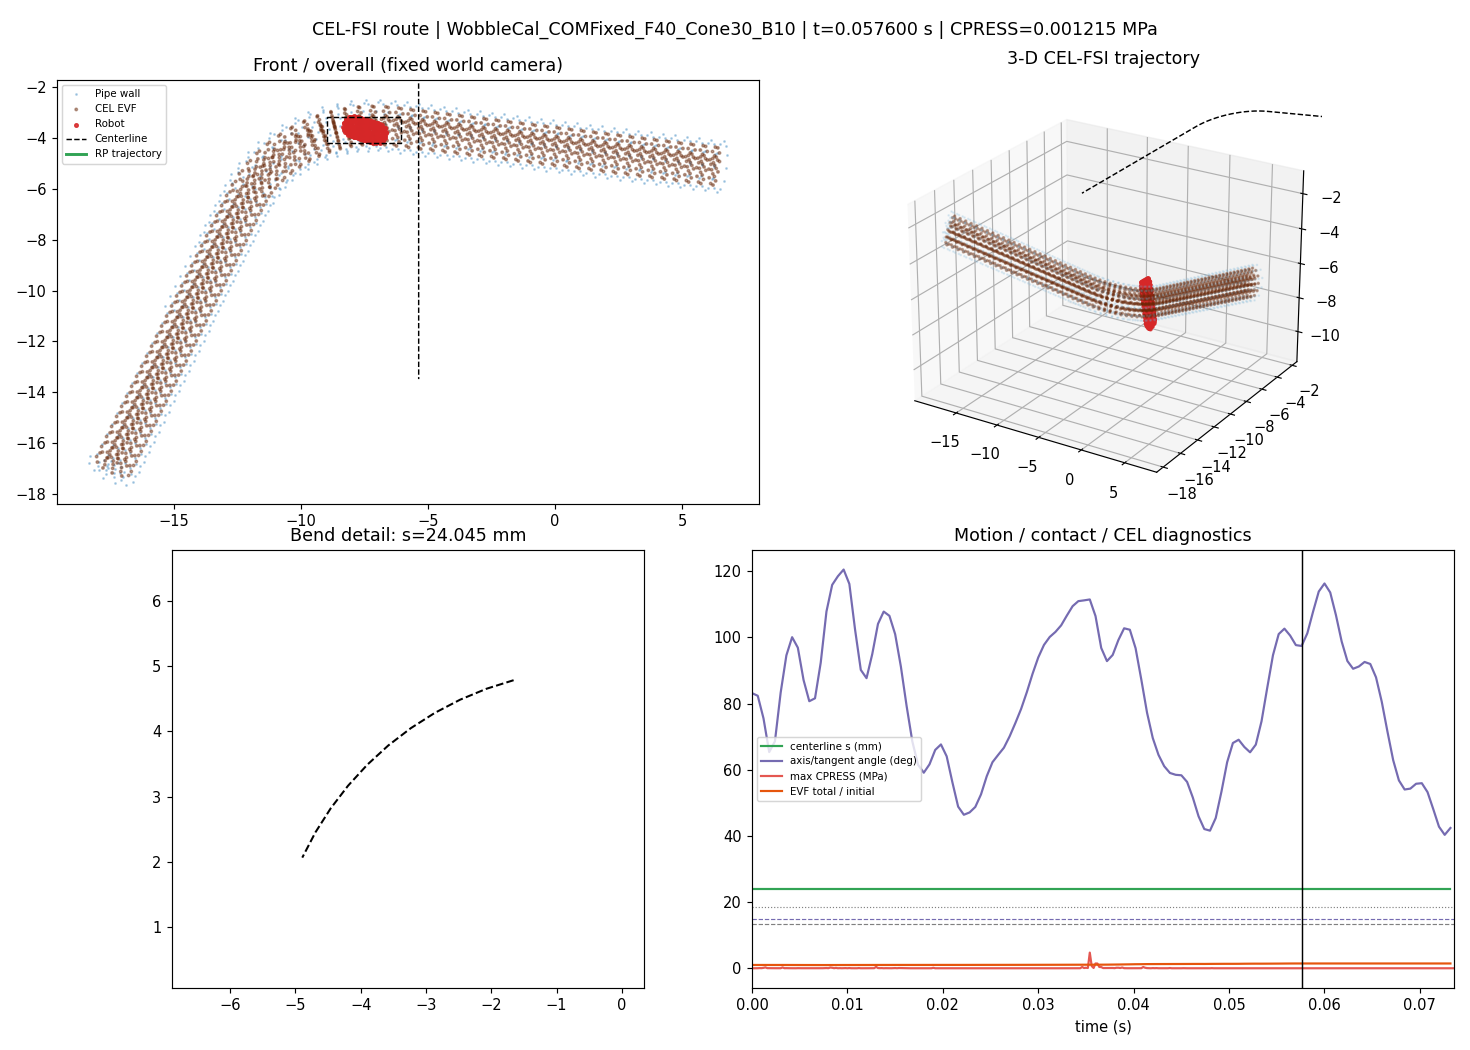
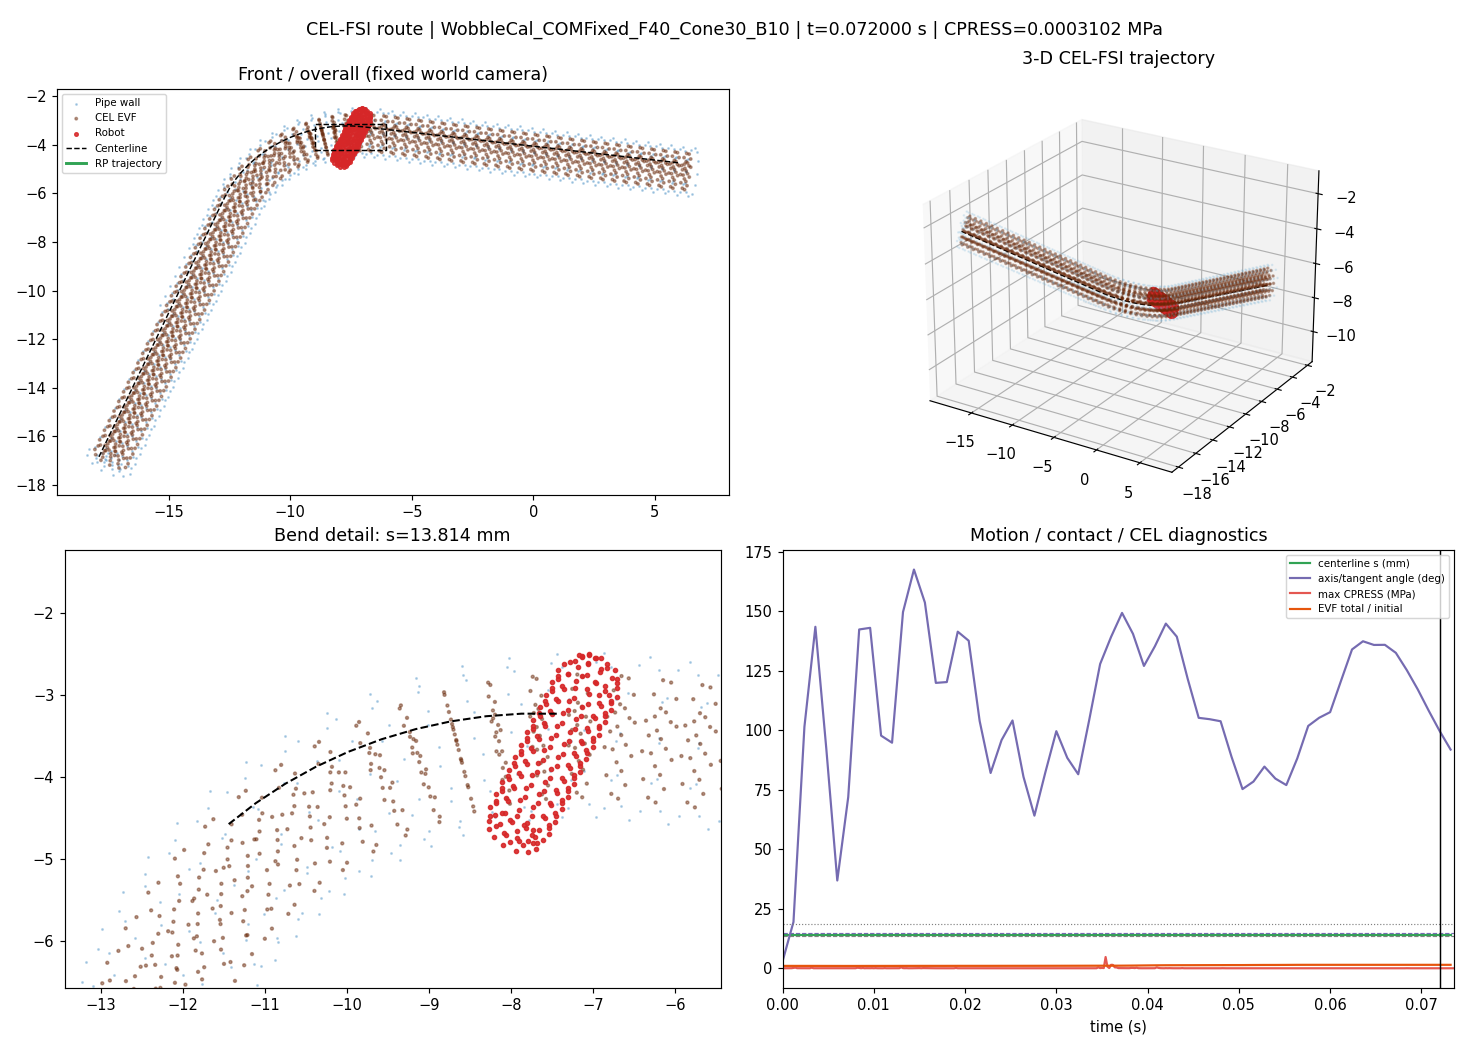
Fix centerline frame in calibration visualization

diff --git a/calibration_analysis/WobbleCal_COMFixed_F40_Cone30_B10_partial/transform_centerline_to_abaqus.py b/calibration_analysis/WobbleCal_COMFixed_F40_Cone30_B10_partial/transform_centerline_to_abaqus.py
@@ -1,0 +1,21 @@
+"""Map the Magpylib flat-XY centerline into Abaqus global coordinates."""
+from pathlib import Path
+import json
+import numpy as np
+import pandas as pd
+
+root = Path(__file__).resolve().parent
+src = root / 'curvenew_CEL_xyrot56_exact.csv'
+dst = root / 'curvenew_CEL_xyrot56_exact_abaqus.csv'
+tf = json.loads((root / 'abaqus_magpylib_frame_transform.json').read_text())
+R = np.asarray(tf['R_aba_to_mag'], float)
+o = np.asarray(tf['origin_aba_mm'], float)
+df = pd.read_csv(src)
+p = df[['x_mm','y_mm','z_mm']].to_numpy(float)
+pab = (R.T.dot(p.T)).T + o
+out = df.copy()
+out[['x_mm','y_mm','z_mm']] = pab
+out.to_csv(dst, index=False)
+print('WROTE', dst)
+print('first_abaqus_mm', pab[0].tolist())
+print('last_abaqus_mm', pab[-1].tolist())

diff --git a/calibration_analysis/WobbleCal_COMFixed_F40_Cone30_B10_partial/wobble_centerline_frame_audit.md b/calibration_analysis/WobbleCal_COMFixed_F40_Cone30_B10_partial/wobble_centerline_frame_audit.md
@@ -1,0 +1,26 @@
+# Centerline frame audit for COM-fixed wobble GIF
+
+The original `curvenew_CEL_xyrot56_exact.csv` is in the Magpylib flat-DXF
+frame.  The ODB pipe, robot, and fluid coordinates are in the Abaqus global
+frame.  The first GIF passed the Magpylib CSV directly to the renderer, so its
+black centerline was visibly offset/tilted even though the solver geometry was
+unchanged.  This was a **post-processing frame-mixing error**, not evidence
+that the 40 Hz Abaqus run integrated a distorted centerline.
+
+The production server uses the shared rigid transform on every request:
+
+```text
+p_mag = R_aba_to_mag @ (p_aba - origin_aba_mm)
+v_aba = R_aba_to_mag.T @ v_mag
+```
+
+The corrected plotting centerline is generated with:
+
+```text
+p_aba = R_aba_to_mag.T @ p_mag + origin_aba_mm
+```
+
+using `transform_centerline_to_abaqus.py` and
+`curvenew_CEL_xyrot56_exact_abaqus.csv`.  Re-extraction and re-rendering with
+that file makes the centerline follow the ODB pipe wall.  No Abaqus rerun is
+required for this visualization correction.
